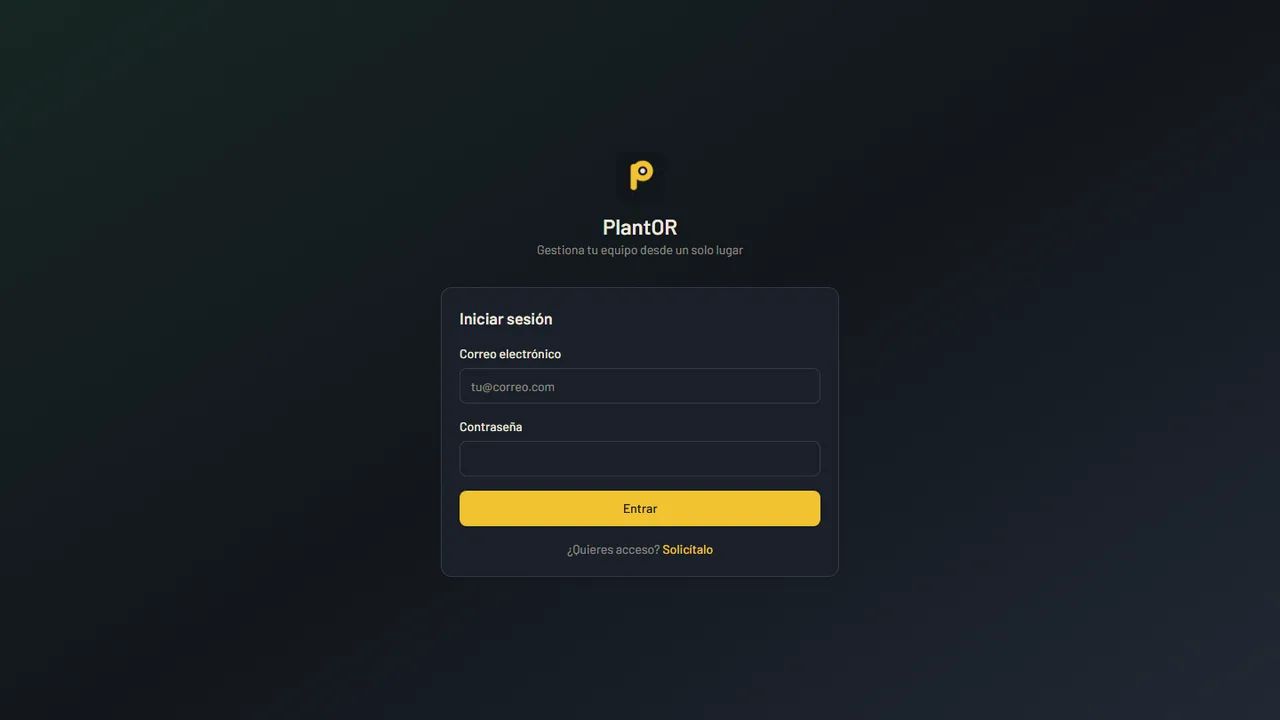
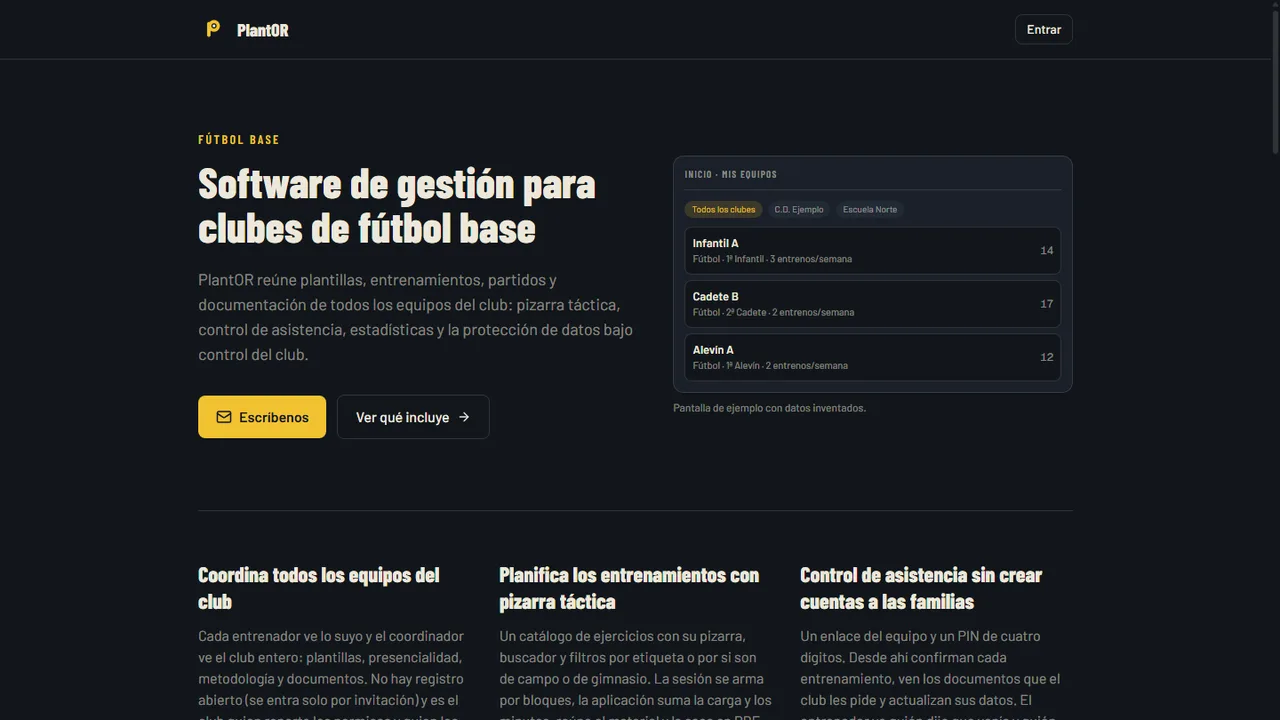
fix: corregido formato de título y subtítulos en archivos README.md, index.html y proyectos.js; añadido Docker y Tailwind SVG

diff --git a/src/data/proyectos.js b/src/data/proyectos.js
@@ -2,21 +2,21 @@ export const proyectos = [
   {
     id: 'plantor',
     titulo: 'PlantOR',
-    subtitulo: 'Gestor de equipos de fútbol',
+    subtitulo: 'Gestor de clubes de fútbol base - plantor.es',
     imagen: '/proyectos/plantor.webp',
-    imagenAlt: 'Pantalla de acceso de PlantOR, el gestor de equipos de fútbol',
+    imagenAlt: 'Página de inicio de plantor.es, el software de gestión para clubes de fútbol base',
     descripcion:
-      'Aplicación web (PWA) para la gestión integral de clubes y equipos deportivos, desarrollada de extremo a extremo. Cubre plantilla y fichas de jugador, calendario, convocatorias y acta del partido (goles, asistencias, cambios y minutos), estadísticas de equipo y jugador, clasificación, tareas tácticas sobre un tablero SVG interactivo, metodología por fases del juego, lesiones, documentos y análisis post-partido.',
+      'Producto propio en producción, desarrollado de extremo a extremo: una aplicación web (PWA) que reúne la gestión de un club de fútbol base. Plantillas y fichas de jugador, calendario, convocatorias y acta del partido en vivo, estadísticas, clasificación automática de la RFFM, pizarra táctica en SVG, metodología en tres niveles con carga por sesión, presencialidad, preparación física, lesiones, documentos, objetivos individuales y análisis post-partido.',
     detalles: [
       'Arquitectura multi-club (multi-tenant) con roles y visibilidad por club y equipo',
-      'Autenticación propia con JWT en cookie httpOnly, acceso solo por invitación y bcrypt',
-      'Desplegada con Docker en una Raspberry Pi tras un proxy inverso Caddy con HTTPS automático (DNS-01)',
-      'Interfaz bilingüe (español / inglés) conmutable en caliente'
+      'Autenticación propia con JWT en cookie httpOnly y bcrypt; las familias confirman asistencia por enlace y PIN, sin crear cuenta',
+      'En producción sobre un VPS propio: Docker, proxy inverso Caddy con HTTPS automático y copias de seguridad cifradas fuera del servidor',
+      'Web pública del producto con SEO propio, e interfaz bilingüe (español / inglés) conmutable en caliente'
     ],
     tecnologias: ['Next.js 16', 'React 19', 'TypeScript', 'Prisma 7', 'PostgreSQL', 'Tailwind CSS', 'Docker', 'PWA'],
-    enlace: 'https://team-management.kaminode.es:8443',
-    enlaceTexto: 'Ver la aplicación →',
-    aviso: 'Acceso por invitación: el enlace lleva a la pantalla de inicio de sesión.'
+    enlace: 'https://plantor.es',
+    enlaceTexto: 'Ver el producto →',
+    aviso: 'plantor.es es la web pública; la aplicación es de acceso restringido a los clubes.'
   },
   {
     id: 'chamartin',

diff --git a/index.html b/index.html
@@ -4,7 +4,7 @@
     <meta charset="UTF-8" />
     <meta name="viewport" content="width=device-width, initial-scale=1.0" />
 
-    <title>Camilo Jené — Desarrollador de software full-stack | camiDEV</title>
+    <title>Camilo Jené - Desarrollador de software full-stack | camiDEV</title>
     <meta name="description" content="Portfolio de Camilo Jené (camiDEV), ingeniero informático y desarrollador de software full-stack: Vue 3, Next.js, Java, Spring Boot, PostgreSQL y Docker. Proyectos, experiencia y contacto." />
     <meta name="author" content="Camilo Jené" />
     <meta name="keywords" content="Camilo Jené, camiDEV, desarrollador full-stack, Vue 3, Next.js, Java, Spring Boot, PostgreSQL, Docker, portfolio, Madrid" />
@@ -20,17 +20,17 @@
     <meta property="og:site_name" content="camiDEV" />
     <meta property="og:locale" content="es_ES" />
     <meta property="og:url" content="https://camidev.es/" />
-    <meta property="og:title" content="Camilo Jené — Desarrollador de software full-stack" />
+    <meta property="og:title" content="Camilo Jené - Desarrollador de software full-stack" />
     <meta property="og:description" content="Ingeniero informático y desarrollador full-stack. Vue 3, Next.js, Java, Spring Boot, PostgreSQL y Docker. Proyectos, experiencia y contacto." />
     <meta property="og:image" content="https://camidev.es/og-image.jpg" />
     <meta property="og:image:width" content="1200" />
     <meta property="og:image:height" content="630" />
-    <meta property="og:image:alt" content="camiDEV — Camilo Jené, desarrollador de software full-stack" />
+    <meta property="og:image:alt" content="camiDEV - Camilo Jené, desarrollador de software full-stack" />
 
     <!-- Twitter -->
     <meta name="twitter:card" content="summary_large_image" />
     <meta name="twitter:site" content="@KamiJeC_05" />
-    <meta name="twitter:title" content="Camilo Jené — Desarrollador de software full-stack" />
+    <meta name="twitter:title" content="Camilo Jené - Desarrollador de software full-stack" />
     <meta name="twitter:description" content="Ingeniero informático y desarrollador full-stack. Vue 3, Next.js, Java, Spring Boot, PostgreSQL y Docker." />
     <meta name="twitter:image" content="https://camidev.es/og-image.jpg" />
 

diff --git a/src/components/Tecnologias.vue b/src/components/Tecnologias.vue
@@ -21,10 +21,11 @@
         <header>
           <h3 class="text-2xl sm:text-4xl font-semibold font-poppins uppercase dark:text-white text-[--indigo-dye]">Desarrollo</h3>
         </header>
-        <figure class="flex justify-evenly pt-5 gap-10">
+        <figure class="flex justify-evenly pt-5 gap-10 flex-wrap">
           <img class="w-14 sm:w-20 lg:w-28" src="/vscode.svg" alt="Visual Studio Code" loading="lazy">
           <img class="w-14 sm:w-20 lg:w-28" src="/git.svg" alt="Git" loading="lazy">
           <img class="w-14 sm:w-20 lg:w-28" src="/jira.svg" alt="Jira" loading="lazy">
+          <img class="w-14 sm:w-20 lg:w-28" src="/docker.svg" alt="Docker" loading="lazy">
         </figure>
       </article>
 
@@ -60,6 +61,7 @@
           <img class="w-14 sm:w-20 lg:w-28" src="/spring.svg" alt="Spring" loading="lazy">
           <img class="w-14 sm:w-20 lg:w-28" src="/django.svg" alt="Django" loading="lazy">
           <img class="w-14 sm:w-20 lg:w-28" src="/vue.svg" alt="Vue.js" loading="lazy">
+          <img class="w-14 sm:w-20 lg:w-28" src="/tailwind.svg" alt="Tailwind CSS" loading="lazy">
         </figure>
       </article>
     </section>

diff --git a/src/router/index.js b/src/router/index.js
@@ -3,7 +3,7 @@ import Home from '@/views/Home.vue';
 import Contacto from '@/views/Contacto.vue';
 
 const routes = [
-  { path: '/', name: 'home', component: Home, meta: { title: 'Camilo Jené — Desarrollador de software full-stack | camiDEV' } },
+  { path: '/', name: 'home', component: Home, meta: { title: 'Camilo Jené - Desarrollador de software full-stack | camiDEV' } },
   { path: '/contacto', name: 'contacto', component: Contacto, meta: { title: 'Contacto | camiDEV' } }
 ];
 

diff --git a/README.md b/README.md
@@ -1,4 +1,4 @@
-# Portfolio — camiDEV
+# Portfolio - camiDEV
 
 Portfolio personal de **Camilo Jené** (camiDEV), publicado en
 **[camidev.es](https://camidev.es)**. Construido con **Vue 3**, **Vite** y
